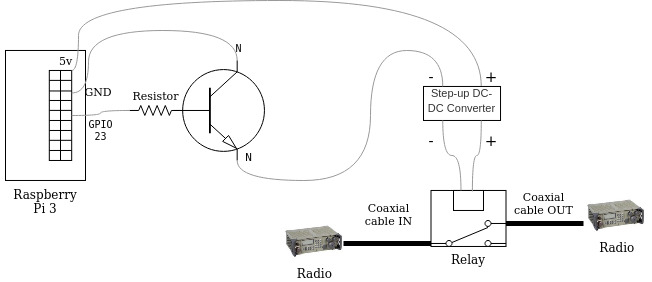
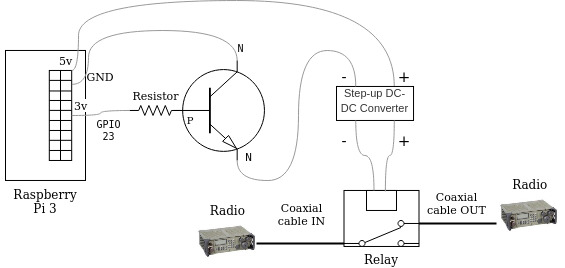
update

diff --git a/README.md b/README.md
@@ -46,7 +46,7 @@ This prototype used the DC 100W 6A 3-35V to 3-35V Boost Step-up with LED Voltmet
 
 #### Circuit
 
-Using a transistor (NPN) and resistor (X ohm) we can activate/deactivate the 
+Using a transistor (bc517 NPN) and resistor (226M Ohms 2%) we can activate/deactivate the 
 step-up module and as a consequence the RF relay. See the prototype scheme.
 
 #### Server script
@@ -92,6 +92,13 @@ Publications
 - R. R. F. Lopes, J. Loevenich, P. H. L. Rettore, S. M. Eswarappa and P. Sevenich, "Quantizing Radio Link Data Rates to Create Ever-Changing Network Conditions in Tactical Networks," in IEEE Access, vol. 8, pp. 188015-188035, 2020, doi: 10.1109/ACCESS.2020.3027797.
 
 - R. Rigolin Ferreira Lopes, P. Hanavadi Balaraju, P. H. Lopes Rettore and P. Sevenich, "Queuing over Ever-changing Communication Scenarios in Tactical Networks," in IEEE Transactions on Mobile Computing, doi: 10.1109/TMC.2020.3005737.
+
+Contacts
+----
+
+paulo.lopes.rettore@fkie.fraunhofer.de
+
+roberto.lopes@fkie.fraunhofer.de
 
 License
 ----
